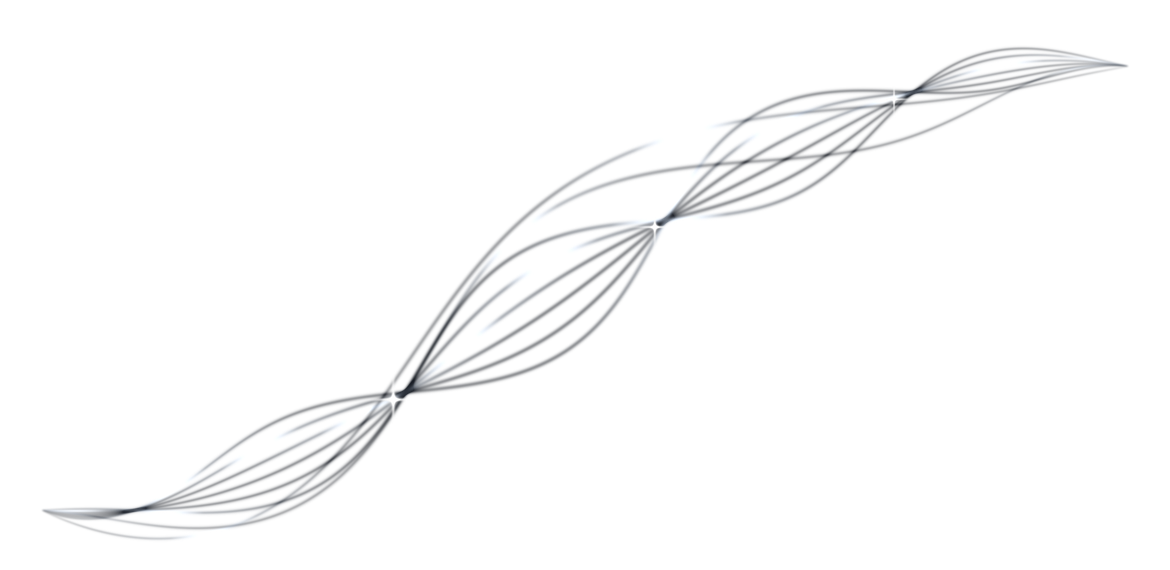
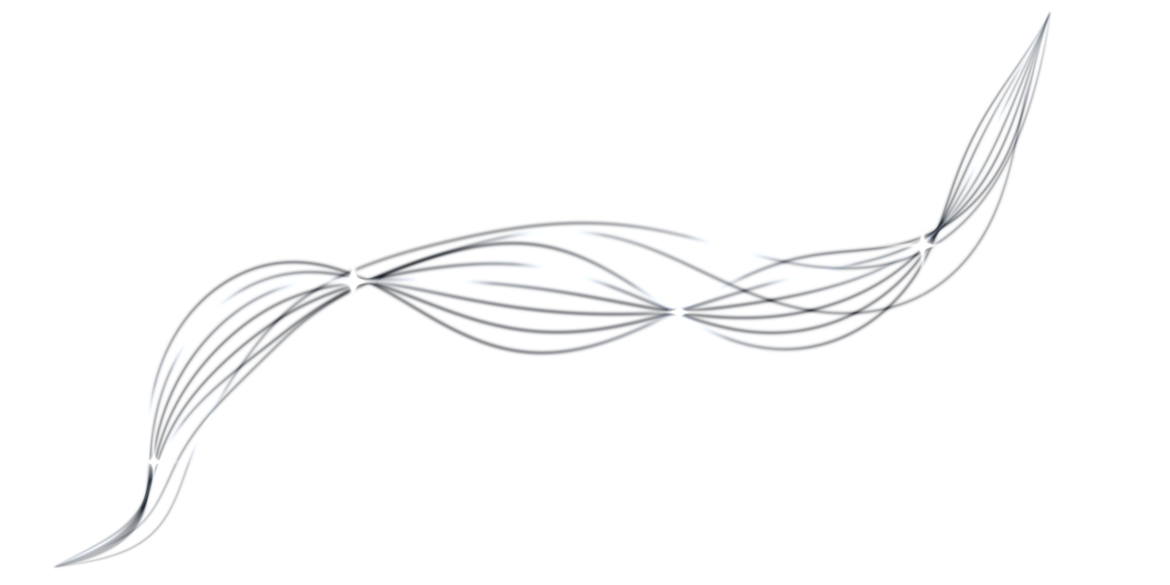
Add relationship-type note and confirmation window; reshape ribbon to owner's sketch with sparkles
Claude-Session: https://claude.ai/code/session_01VGpQosDvw82dpvhLbP5TAa

Changed region(s): [[0.0308, 0.0596, 0.9538, 0.9842]]

diff --git a/index.html b/index.html
@@ -818,7 +818,7 @@ html:has(#resultsWrap[style*="block"]),body:has(#resultsWrap[style*="block"]){ba
 <script>(function(){var FIN=/[?&]look=final\b/.test(location.search);
 if(FIN||/[?&]look=base\b/.test(location.search)){if(FIN){var R=document.documentElement;R.classList.add('pre');var ps=document.createElement('style');ps.textContent='html,body{background:#eceff1 !important}html.pre body{opacity:0}body{transition:opacity .7s ease}';document.head.appendChild(ps);var rv=function(){setTimeout(function(){R.classList.remove('pre');},250);};new MutationObserver(function(){if(R.classList.contains('m3d')){rv();}}).observe(R,{attributes:true,attributeFilter:['class']});setTimeout(function(){R.classList.remove('pre');},7000);
 document.documentElement.classList.add('no-shadows','inlay-lt');document.addEventListener('DOMContentLoaded',function(){var f=document.querySelector('.free-reading-line');if(f)f.innerHTML='<span class="fr-a">first reading</span><span class="fr-b">free</span>';});}document.documentElement.classList.add('look-base');if(/[?&]shadows=0\b/.test(location.search))document.documentElement.classList.add('no-shadows');var b=document.createElement('link');b.rel='stylesheet';b.href='look-base.css';document.head.appendChild(b);if(/[?&]labels=below\b/.test(location.search)){document.documentElement.classList.add('labels-below');var sl=function(){document.querySelectorAll('.hero-continue-btn,.gen-btn,.price-row,.rel-chip').forEach(function(b){var t=Array.prototype.map.call(b.querySelectorAll('span'),function(s){return s.textContent.trim();}).filter(Boolean).join(' ')||b.textContent.replace(/\s+/g,' ').trim();if(t&&b.dataset.label!==t)b.dataset.label=t;});};document.addEventListener('DOMContentLoaded',function(){sl();new MutationObserver(sl).observe(document.body,{childList:true,subtree:true});});}
-if(FIN||/[?&]refl=1\b/.test(location.search))document.addEventListener('DOMContentLoaded',function(){var m=document.createElement('script');m.type='module';m.src='metal3d.js';document.body.appendChild(m);if(FIN){var rf=document.createElement('script');rf.src='reflect.js';document.body.appendChild(rf);var rb=document.createElement('script');rb.src='ribbon.js';document.body.appendChild(rb);}});return;}if(!/[?&]look=metal\b/.test(location.search))return;document.documentElement.classList.add('look-metal');var l=document.createElement('link');l.rel='stylesheet';l.href='look-metal.css';document.head.appendChild(l);document.addEventListener('DOMContentLoaded',function(){var s=document.createElement('script');s.src='look-metal.js';document.body.appendChild(s);var m=document.createElement('script');m.type='module';m.src='metal3d.js';document.body.appendChild(m);});})();</script>
+if(FIN||/[?&]refl=1\b/.test(location.search))document.addEventListener('DOMContentLoaded',function(){var m=document.createElement('script');m.type='module';m.src='metal3d.js';document.body.appendChild(m);if(FIN){var rf=document.createElement('script');rf.src='reflect.js';document.body.appendChild(rf);var rb=document.createElement('script');rb.src='ribbon.js';document.body.appendChild(rb);var cf=document.createElement('script');cf.src='confirm.js';document.body.appendChild(cf);}});return;}if(!/[?&]look=metal\b/.test(location.search))return;document.documentElement.classList.add('look-metal');var l=document.createElement('link');l.rel='stylesheet';l.href='look-metal.css';document.head.appendChild(l);document.addEventListener('DOMContentLoaded',function(){var s=document.createElement('script');s.src='look-metal.js';document.body.appendChild(s);var m=document.createElement('script');m.type='module';m.src='metal3d.js';document.body.appendChild(m);});})();</script>
 </head>
 <body>
 

diff --git a/confirm.js b/confirm.js
@@ -1,0 +1,48 @@
+/* ?look=final — notes and the relationship confirmation.
+   1) "* choose type of relationship" above the four choices (relational view only).
+   2) Calculate in the relational view opens a small confirmation first; the page's own generate() runs only on Confirm. */
+(function(){
+  var relWrap=document.getElementById('relWrap');
+  // ---- the note ----
+  if(relWrap){
+    var note=document.createElement('div');note.id='relNote';note.textContent='* choose type of relationship';
+    relWrap.parentNode.insertBefore(note,relWrap);
+    var sync=function(){note.style.display=(relWrap.style.display&&relWrap.style.display!=='none')?'block':'none';};
+    new MutationObserver(sync).observe(relWrap,{attributes:true,attributeFilter:['style']});sync();
+  }
+  // ---- the confirmation ----
+  var orig=window.generate;if(typeof orig!=='function')return;
+  var dlg=null,lastFocus=null;
+  function el(tag,cls,txt){var e=document.createElement(tag);if(cls)e.className=cls;if(txt!=null)e.textContent=txt;return e;}
+  function close(){if(dlg){dlg.remove();dlg=null;document.removeEventListener('keydown',onKey,true);}if(lastFocus&&lastFocus.focus)lastFocus.focus();}
+  function onKey(e){if(e.key==='Escape'){e.preventDefault();close();}}
+  function relLabel(){var a=document.querySelector('.rel-chip.active');return a?a.textContent.replace(/\s+/g,' ').trim():'';}
+  function val(id){var x=document.getElementById(id);return x?x.value.trim():'';}
+  function ready(){   // same checks generate() makes, so the window never appears over an error
+    try{if(!val('p1f')||!val('p1l')||!vd(val('p1d')))return false;if(!val('p2f')||!val('p2l')||!vd(val('p2d')))return false;return true;}catch(e){return false;}
+  }
+  window.generate=function(){
+    var rel=false;try{rel=isRelational;}catch(e){}
+    if(!rel||!ready()||dlg)return orig.apply(this,arguments);
+    lastFocus=document.activeElement;
+    dlg=el('div','kye-scrim');dlg.setAttribute('role','dialog');dlg.setAttribute('aria-modal','true');dlg.setAttribute('aria-labelledby','kyeTitle');
+    var card=el('div','kye-card');
+    card.appendChild(el('div','kye-kicker','Confirm relationship type'));
+    var t=el('div','kye-type',relLabel());t.id='kyeTitle';card.appendChild(t);
+    card.appendChild(el('div','kye-names',val('p1f')+'  &  '+val('p2f')));
+    card.appendChild(el('div','kye-note','Your free reading will be made for this type of relationship.'));
+    var row=el('div','kye-row');
+    var change=el('button','kye-btn kye-change','Change');change.type='button';
+    var ok=el('button','kye-btn kye-ok','Confirm');ok.type='button';
+    row.appendChild(change);row.appendChild(ok);card.appendChild(row);dlg.appendChild(card);document.body.appendChild(dlg);
+    document.addEventListener('keydown',onKey,true);
+    change.addEventListener('click',close);
+    dlg.addEventListener('click',function(e){if(e.target===dlg)close();});
+    ok.addEventListener('click',function(){
+      var args=arguments;close();
+      if(window.__noSubmit){var n=el('div','kye-toast','Preview: your reading would start here.');document.body.appendChild(n);setTimeout(function(){n.remove();},2600);return;}
+      orig();
+    });
+    setTimeout(function(){ok.focus();},30);
+  };
+})();

diff --git a/look-base.css b/look-base.css
@@ -144,3 +144,22 @@ html.look-base .price-amt{font-size:17px !important;letter-spacing:.06em !import
 /* the energy ribbon: a fine flowing line of light between the two people (relational view only) */
 html.look-base #energyRibbon{position:absolute;z-index:0;pointer-events:none;object-fit:fill;display:none;}
 html.look-base #p2Section.open{margin-top:150px !important;}
+
+/* the note above the relationship choices */
+html.look-base #relNote{display:none;text-align:center;font-family:'DM Sans',sans-serif;font-size:12px;font-weight:600;letter-spacing:.03em;color:var(--ink);margin:10px 0 2px;}
+/* the confirmation window */
+.kye-scrim{position:fixed;inset:0;z-index:2000;display:flex;align-items:center;justify-content:center;padding:20px;background:rgba(236,239,241,.78);-webkit-backdrop-filter:blur(3px);backdrop-filter:blur(3px);animation:kyeIn .22s ease;}
+@keyframes kyeIn{from{opacity:0}to{opacity:1}}
+.kye-card{width:min(330px,100%);background:linear-gradient(180deg,#fbfcfc,#eef1f3);border-radius:24px;padding:26px 22px 22px;text-align:center;color:#101114;box-shadow:0 1px 0 #fff inset,0 26px 60px -12px rgba(20,24,30,.38),0 2px 6px rgba(20,24,30,.12);}
+.kye-kicker{font-family:'Barlow Condensed',sans-serif;font-weight:700;font-size:12px;letter-spacing:.28em;text-transform:uppercase;color:#3a3d44;}
+.kye-type{font-family:'Libre Baskerville',Baskerville,serif;font-style:italic;font-size:34px;line-height:1.15;margin:10px 0 2px;color:#101114;}
+.kye-names{font-family:'DM Sans',sans-serif;font-size:15px;font-weight:600;color:#2a2d34;}
+.kye-note{font-family:'DM Sans',sans-serif;font-size:13px;line-height:1.4;color:#3a3d44;margin:14px 6px 20px;}
+.kye-row{display:flex;justify-content:center;gap:18px;}
+.kye-btn{font-family:'Barlow Condensed',sans-serif;font-weight:700;font-size:15px;letter-spacing:.24em;text-transform:uppercase;border:none;cursor:pointer;width:122px;height:48px;border-radius:50%;transform:rotate(-12deg);-webkit-tap-highlight-color:transparent;transition:transform .08s ease;}
+.kye-change{color:#101114;background:linear-gradient(28deg,#8c9096 0%,#c4c7cc 42%,#f3f4f5 78%,#fff 100%);box-shadow:inset 0 2px 1px rgba(255,255,255,.95),inset 0 -4px 6px rgba(40,42,48,.28),-2px 8px 12px rgba(30,32,36,.28);}
+.kye-ok{color:#f4f5f7;background:linear-gradient(28deg,#050507 0%,#17181c 55%,#50525a 100%);box-shadow:inset 0 2px 1px rgba(255,255,255,.35),inset 0 -4px 6px rgba(0,0,0,.5),-2px 8px 12px rgba(30,32,36,.32);}
+.kye-btn:active{transform:rotate(-12deg) scale(.95) translateY(2px);}
+.kye-btn:focus-visible{outline:2px solid #101114;outline-offset:3px;}
+.kye-toast{position:fixed;left:50%;bottom:28px;transform:translateX(-50%);z-index:2100;background:#101114;color:#f4f5f7;font-family:'DM Sans',sans-serif;font-size:13px;padding:10px 16px;border-radius:999px;}
+@media (prefers-reduced-motion:reduce){.kye-scrim{animation:none;}}

diff --git a/ribbon.js b/ribbon.js
@@ -6,7 +6,7 @@
   function place(){raf=0;
     var open=p2.classList.contains('open');img.style.display=open?'block':'none';if(!open)return;
     var f=form.getBoundingClientRect(),a=p1.getBoundingClientRect(),b=p2.getBoundingClientRect();
-    var top=a.bottom-f.top+4,h=Math.max(60,(b.top-f.top)-top-34);
+    var w=f.width,top=a.bottom-f.top-45*w/390,h=195*w/390;
     img.style.top=top+'px';img.style.height=h+'px';img.style.left='0px';img.style.width=f.width+'px';
   }
   function sched(){if(!raf)raf=requestAnimationFrame(place);}
